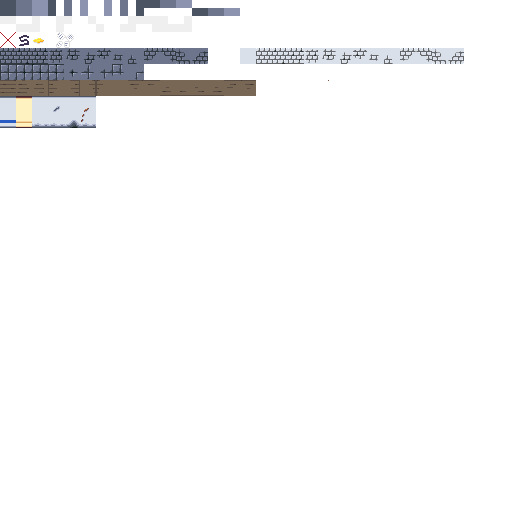
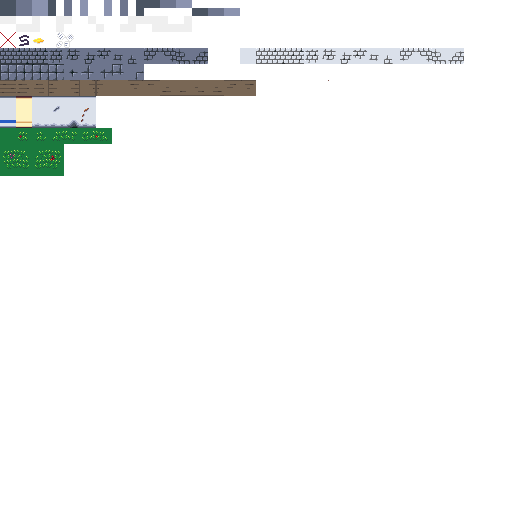
- testing map transitions and persistency

Changed region(s): [[0.0, 0.25, 0.2188, 0.3438]]

diff --git a/sources/main.cpp b/sources/main.cpp
@@ -23,7 +23,7 @@
 //------------------------------------------------------------------------------------
 int main() {
     GameData game;
-    CreateGame(game, "indoor_level.json");
+    CreateGame(game, "outdoor_level.json");
     SetupMenuGameMode(&game);
     SetupLevelGameMode(&game);
 
